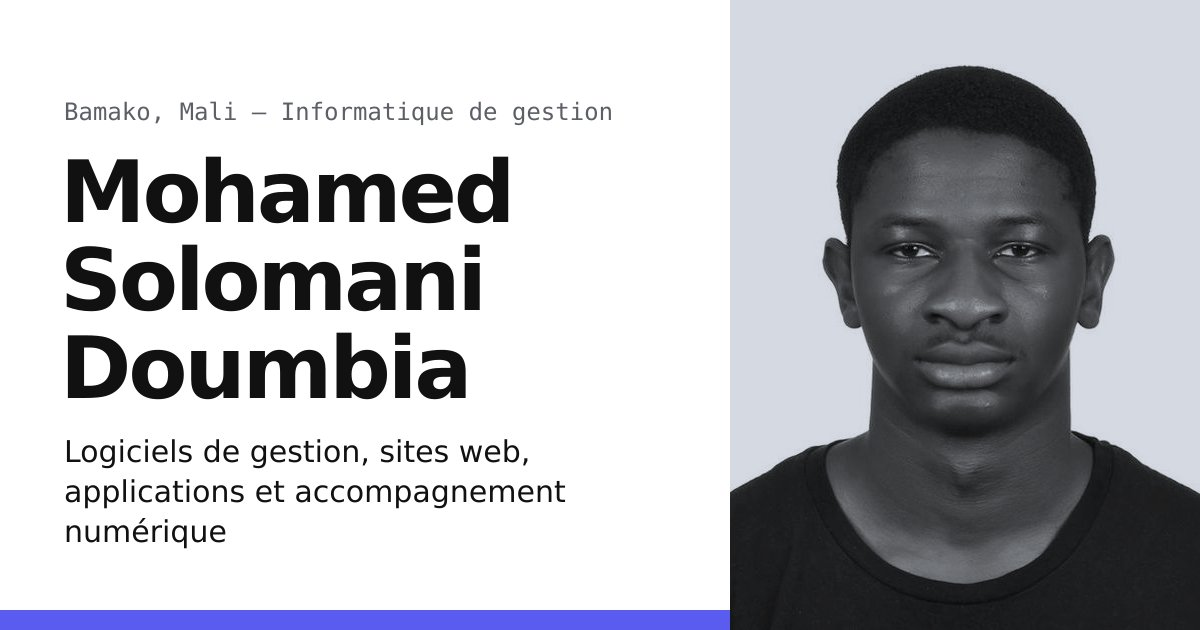
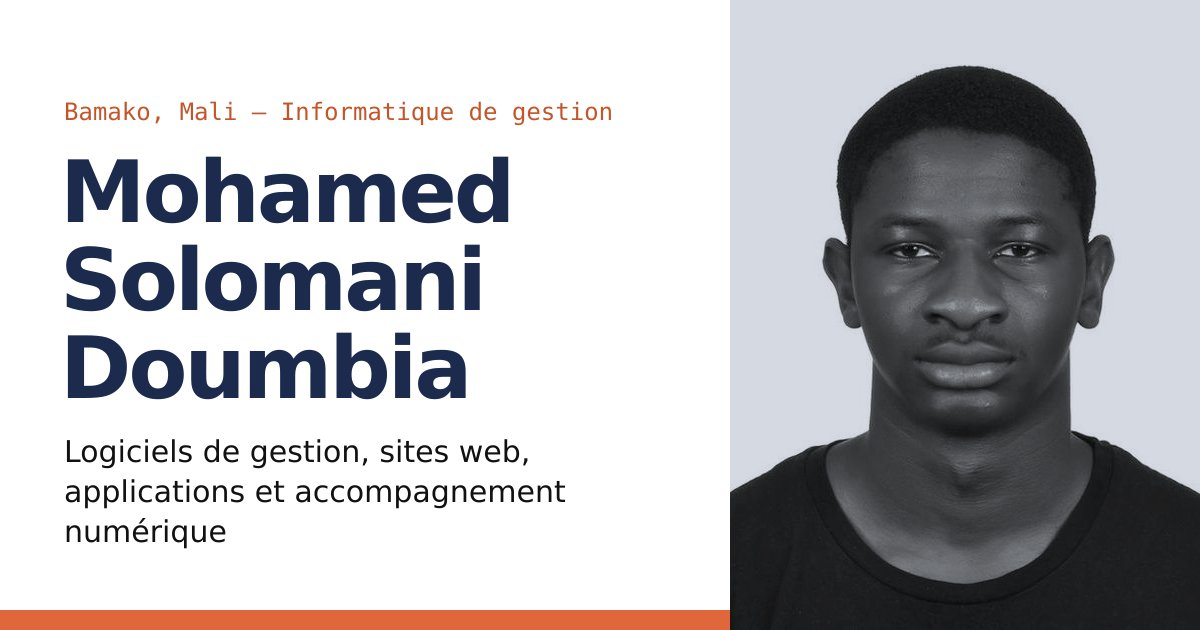
Aligne les couleurs du portfolio sur celles du CV
Bleu marine du CV en couleur principale (services, chiffres, contact,
pied de page, carte Kafora) et orange en accent (boutons, pastilles,
icônes, filets, lien actif). Orange plus foncé pour les boutons et petits
textes afin de garder un contraste lisible. Icônes, image de partage et
page 404 assorties.

Claude-Session: https://claude.ai/code/session_01SLQQvC6wSwLjkj3dk6TRUa

diff --git a/index.html b/index.html
@@ -18,7 +18,7 @@
   <meta property="og:image:height" content="630" />
   <meta property="og:image:alt" content="Mohamed Solomani Doumbia — Logiciels de gestion, sites web, applications et accompagnement numérique" />
   <meta name="twitter:card" content="summary_large_image" />
-  <meta name="theme-color" content="#ffffff" />
+  <meta name="theme-color" content="#1c2a4e" />
   <link rel="icon" type="image/svg+xml" href="assets/favicon.svg" />
   <link rel="icon" type="image/png" sizes="32x32" href="assets/favicon-32.png" />
   <link rel="apple-touch-icon" href="assets/apple-touch-icon.png" />
@@ -52,14 +52,16 @@
   <style>
     :root {
       color-scheme: light;
-      --black: #0a0a0a;
-      --char: #222222;
+      --navy: #1c2a4e;        /* bleu marine du CV */
+      --navy-deep: #15203d;
+      --navy-soft: #22335d;
       --white: #ffffff;
       --mist: #d5dae2;
       --ink: #111111;
       --grey: #5c5f66;
       --line: #e3e5e9;
-      --indigo: #5a5cf0;
+      --orange: #e0673c;      /* orange du CV : filets et détails */
+      --accent: #c4552b;      /* orange un peu plus foncé : boutons et petits textes (contraste) */
       --mono: "Space Mono", ui-monospace, monospace;
     }
 
@@ -75,21 +77,21 @@
     .big { font-size: clamp(54px, 8.4vw, 128px); line-height: .98; font-weight: 400; letter-spacing: -0.035em; }
     .pill {
       display: inline-grid; place-items: center; min-width: 52px; height: 36px; padding: 0 12px;
-      border: 1.5px solid var(--indigo); border-radius: 999px; font: 400 15px var(--mono);
+      border: 1.5px solid var(--orange); border-radius: 999px; font: 400 15px var(--mono);
     }
     .btn {
       display: inline-flex; align-items: center; gap: 10px; height: 56px; padding: 0 30px;
       font: 500 15px "Poppins", sans-serif; letter-spacing: .06em; text-transform: uppercase; text-decoration: none;
       border: 1.5px solid currentColor; transition: background .15s, color .15s;
     }
-    .btn.solid { background: var(--indigo); border-color: var(--indigo); color: #fff; }
-    .btn.solid:hover { background: #4446d6; border-color: #4446d6; }
-    .btn.line:hover { background: var(--ink); color: #fff; border-color: var(--ink); }
+    .btn.solid { background: var(--accent); border-color: var(--accent); color: #fff; }
+    .btn.solid:hover { background: var(--navy); border-color: var(--navy); }
+    .btn.line:hover { background: var(--navy); color: #fff; border-color: var(--navy); }
 
     /* Accessibilité */
-    .skip { position: absolute; left: 16px; top: -60px; z-index: 50; background: var(--indigo); color: #fff; padding: 10px 16px; text-decoration: none; }
+    .skip { position: absolute; left: 16px; top: -60px; z-index: 50; background: var(--accent); color: #fff; padding: 10px 16px; text-decoration: none; }
     .skip:focus { top: 12px; }
-    :focus-visible { outline: 2px solid var(--indigo); outline-offset: 3px; }
+    :focus-visible { outline: 2px solid var(--accent); outline-offset: 3px; }
     section { scroll-margin-top: 72px; }
 
     /* Apparition au défilement */
@@ -108,9 +110,9 @@
     .nav nav { display: flex; gap: 40px; font-size: 15px; letter-spacing: .04em; text-transform: uppercase; }
     .nav nav a { text-decoration: none; }
     .nav nav a { position: relative; transition: color .2s; }
-    .nav nav a:hover, .nav nav a.active { color: var(--indigo); }
+    .nav nav a:hover, .nav nav a.active { color: var(--accent); }
     .nav .wrap { position: relative; }
-    .nav .progress { position: absolute; left: 0; bottom: -1px; height: 2px; width: 100%; background: var(--indigo); transform-origin: 0 50%; transform: scaleX(0); }
+    .nav .progress { position: absolute; left: 0; bottom: -1px; height: 2px; width: 100%; background: var(--accent); transform-origin: 0 50%; transform: scaleX(0); }
     .burger { display: none; width: 44px; height: 44px; border: 0; background: none; cursor: pointer; padding: 10px; margin-right: -10px; }
     .burger span { display: block; height: 2px; background: var(--ink); transition: transform .25s, opacity .25s; }
     .burger span + span { margin-top: 7px; }
@@ -122,10 +124,10 @@
       .nav nav { display: none; }
       .burger { display: block; }
       .mobile-menu {
-        display: flex; flex-direction: column; position: fixed; inset: 72px 0 0; z-index: 19; background: var(--black); color: #fff;
+        display: flex; flex-direction: column; position: fixed; inset: 72px 0 0; z-index: 19; background: var(--navy); color: #fff;
         padding: 32px 16px; gap: 4px; transform: translateY(-8px); opacity: 0; visibility: hidden; transition: opacity .25s, transform .25s, visibility .25s;
       }
-      .mobile-menu a { font-size: 34px; font-weight: 500; letter-spacing: -0.02em; text-decoration: none; padding: 6px 0; border-bottom: 1px solid #2c2c2c; display: flex; justify-content: space-between; align-items: baseline; }
+      .mobile-menu a { font-size: 34px; font-weight: 500; letter-spacing: -0.02em; text-decoration: none; padding: 6px 0; border-bottom: 1px solid rgba(255,255,255,.14); display: flex; justify-content: space-between; align-items: baseline; }
       .mobile-menu a small { font: 400 13px var(--mono); color: #8a8d94; }
       .mobile-menu .btn { margin-top: 28px; justify-content: center; align-items: center; border-bottom: 0; font-size: 15px; letter-spacing: .06em; }
       .menu-open .mobile-menu { opacity: 1; visibility: visible; transform: none; }
@@ -154,15 +156,15 @@
     @media (max-width: 640px) { .hero-text { padding: 40px 16px 56px; } }
 
     /* ── Services (fond noir, grille) ────────────────── */
-    .services { background: var(--black); color: #fff; }
+    .services { background: var(--navy); color: #fff; }
     .services .grid { display: grid; grid-template-columns: 1fr 1.7fr; }
-    .services .title-cell { padding: 96px 48px 96px max(32px, calc((100vw - 1280px) / 2)); border-right: 1px solid #2c2c2c; }
+    .services .title-cell { padding: 96px 48px 96px max(32px, calc((100vw - 1280px) / 2)); border-right: 1px solid rgba(255,255,255,.14); }
     .services .title-cell .inner { position: sticky; top: 120px; }
     .services .title-cell p { color: #b6b8be; margin: 32px 0 0; max-width: 22em; }
-    .service { display: grid; grid-template-columns: 200px 1fr; gap: 32px; align-items: center; padding: 56px max(32px, calc((100vw - 1280px) / 2)) 56px 48px; border-bottom: 1px solid #2c2c2c; }
-    .service:nth-child(even) { background: #141414; }
+    .service { display: grid; grid-template-columns: 200px 1fr; gap: 32px; align-items: center; padding: 56px max(32px, calc((100vw - 1280px) / 2)) 56px 48px; border-bottom: 1px solid rgba(255,255,255,.14); }
+    .service:nth-child(even) { background: var(--navy-deep); }
     .service { transition: background .3s; }
-    .service:hover { background: #1b1b2e; }
+    .service:hover { background: var(--navy-soft); }
     .service svg { width: 132px; height: 132px; justify-self: center; transition: transform .4s cubic-bezier(.2,.7,.2,1); }
     .service:hover svg { transform: scale(1.06) rotate(-3deg); }
     .service .row { display: grid; grid-template-columns: auto 1fr; gap: 24px; align-items: start; }
@@ -170,7 +172,7 @@
     .service p { margin: 12px 0 0; color: #c9cbd1; }
     @media (max-width: 960px) {
       .services .grid { grid-template-columns: 1fr; }
-      .services .title-cell { padding: 72px 32px 40px; border-right: 0; border-bottom: 1px solid #2c2c2c; }
+      .services .title-cell { padding: 72px 32px 40px; border-right: 0; border-bottom: 1px solid rgba(255,255,255,.14); }
       .service { grid-template-columns: 1fr; padding: 40px 32px; gap: 24px; }
       .service svg { justify-self: start; width: 88px; height: 88px; }
     }
@@ -193,12 +195,12 @@
     .about .text p { margin: 0; }
     @media (max-width: 860px) { .about::after { width: 22%; opacity: .6; } .about .text { grid-template-columns: 1fr; gap: 20px; } }
 
-    /* ── Chiffres (indigo) ───────────────────────────── */
-    .figures { background: var(--indigo); color: #fff; }
+    /* ── Chiffres (marine) ───────────────────────────── */
+    .figures { background: var(--navy); color: #fff; }
     .figures .wrap { display: grid; grid-template-columns: 1fr 2.2fr; gap: 48px; padding: 72px 0 80px; }
     .figures h2 { font-size: clamp(30px, 3vw, 44px); font-weight: 400; }
     .figures .cells { display: grid; grid-template-columns: 1fr 1fr; gap: 48px 32px; }
-    .figures .cell { border-top: 12px solid #fff; border-bottom: 1px solid rgba(255,255,255,.7); padding: 30px 0 34px; }
+    .figures .cell { border-top: 12px solid var(--orange); border-bottom: 1px solid rgba(255,255,255,.7); padding: 30px 0 34px; }
     .figures strong { display: block; font-size: clamp(48px, 5.4vw, 76px); line-height: 1; font-weight: 600; letter-spacing: -0.03em; }
     .figures span { display: block; margin-top: 14px; }
     @media (max-width: 860px) { .figures .wrap { grid-template-columns: 1fr; } }
@@ -213,9 +215,9 @@
     .sectors li:not(:nth-child(3n+1)) { padding-left: 28px; border-left: 1px solid var(--line); }
     .sectors li { transition: background .25s; }
     .sectors h3 { font-size: 21px; font-weight: 500; margin-bottom: 8px; transition: color .25s; }
-    .sectors li:hover h3 { color: var(--indigo); }
+    .sectors li:hover h3 { color: var(--accent); }
     .sectors p { margin: 0; color: var(--grey); font-size: 15px; }
-    .sectors .xp { display: inline-block; margin-top: 14px; font: 400 12px var(--mono); color: var(--indigo); text-transform: uppercase; letter-spacing: .04em; }
+    .sectors .xp { display: inline-block; margin-top: 14px; font: 400 12px var(--mono); color: var(--accent); text-transform: uppercase; letter-spacing: .04em; }
     @media (max-width: 960px) {
       .sec-head { grid-template-columns: 1fr; gap: 24px; }
       .sectors { grid-template-columns: 1fr 1fr; }
@@ -228,15 +230,15 @@
     }
 
     /* ── Réalisations (anthracite, cartes) ───────────── */
-    .work { background: var(--char); color: #fff; }
+    .work { background: #eef0f4; color: var(--ink); }
     .work .wrap { padding: 104px 0; }
-    .work .sec-head p { color: #b6b8be; }
+    .work .sec-head p { color: var(--grey); }
     .cards { display: grid; grid-template-columns: repeat(2, 1fr); gap: 32px; }
-    .card { background: var(--indigo); color: #fff; padding: 36px 34px 34px; display: flex; flex-direction: column; min-height: 560px; transition: transform .35s cubic-bezier(.2,.7,.2,1), box-shadow .35s; }
-    .card:hover { transform: translateY(-6px); box-shadow: 0 24px 48px rgba(0,0,0,.35); }
-    .card:nth-child(2) { background: #f4f4f6; color: var(--ink); }
-    .card:nth-child(3) { background: #fff; color: var(--ink); }
-    .card:nth-child(4) { background: var(--mist); color: var(--ink); }
+    .card { background: var(--navy); color: #fff; padding: 36px 34px 34px; display: flex; flex-direction: column; min-height: 560px; transition: transform .35s cubic-bezier(.2,.7,.2,1), box-shadow .35s; }
+    .card:hover { transform: translateY(-6px); box-shadow: 0 24px 48px rgba(28,42,78,.22); }
+    .card:nth-child(2) { background: #fff; color: var(--ink); border-top: 6px solid var(--orange); }
+    .card:nth-child(3) { background: #fff; color: var(--ink); border-top: 6px solid var(--orange); }
+    .card:nth-child(4) { background: var(--mist); color: var(--ink); border-top: 6px solid var(--orange); }
     .card .top { display: flex; justify-content: space-between; align-items: center; font: 400 13px var(--mono); text-transform: uppercase; letter-spacing: .04em; }
     .card .top .pill { border-color: currentColor; height: 30px; min-width: 0; font-size: 12px; }
     /* Emplacement de la capture d'écran */
@@ -282,18 +284,18 @@
     .journey .what { font: 700 17px var(--mono); margin-top: 6px; }
     .journey .what span { font-weight: 400; }
     .journey li p { margin: 8px 0 0; font: 400 14px/1.75 var(--mono); color: var(--grey); }
-    .journey h3 { font: 700 13px var(--mono); text-transform: uppercase; letter-spacing: .08em; color: var(--indigo); margin: 0 0 24px; }
+    .journey h3 { font: 700 13px var(--mono); text-transform: uppercase; letter-spacing: .08em; color: var(--accent); margin: 0 0 24px; }
     .langs { font: 400 14px/1.8 var(--mono); }
     @media (max-width: 960px) { .journey .wrap { grid-template-columns: 1fr; gap: 40px; } }
 
     /* ── Contact (noir + formulaire) ─────────────────── */
-    .contact { display: grid; grid-template-columns: 1fr 1fr; background: var(--black); }
+    .contact { display: grid; grid-template-columns: 1fr 1fr; background: var(--navy); }
     .contact .left { color: #fff; padding: 96px 48px 72px max(32px, calc((100vw - 1280px) / 2)); display: flex; flex-direction: column; }
     .contact .left p { margin: 36px 0 0; font-size: 19px; color: #d3d4d8; }
     .contact .coords { margin-top: auto; padding-top: 72px; display: grid; grid-template-columns: 1fr 1fr; gap: 24px; font-size: 18px; }
     .contact .coords a { text-decoration: none; display: block; }
     .contact .coords a:hover { text-decoration: underline; }
-    .contact .right { background: #fff; margin-top: 180px; border-top: 12px solid var(--indigo); padding: 64px max(32px, calc((100vw - 1280px) / 2)) 72px 72px; }
+    .contact .right { background: #fff; margin-top: 180px; border-top: 12px solid var(--orange); padding: 64px max(32px, calc((100vw - 1280px) / 2)) 72px 72px; }
     form { display: grid; grid-template-columns: 1fr 1fr; gap: 26px 20px; }
     form .full { grid-column: 1 / -1; }
     label { display: block; font-size: 16px; margin-bottom: 8px; }
@@ -301,10 +303,10 @@
       width: 100%; font: 400 15px "Poppins", sans-serif; color: var(--ink); background: #fff;
       border: 1px solid #8a8d94; border-radius: 0; padding: 12px 14px;
     }
-    input:focus, select:focus, textarea:focus { outline: 2px solid var(--indigo); outline-offset: -1px; border-color: var(--indigo); }
+    input:focus, select:focus, textarea:focus { outline: 2px solid var(--accent); outline-offset: -1px; border-color: var(--accent); }
     textarea { min-height: 130px; resize: vertical; }
-    form button { grid-column: 1 / -1; height: 54px; border: 0; background: var(--black); color: #fff; font: 500 15px "Poppins", sans-serif; letter-spacing: .06em; text-transform: uppercase; cursor: pointer; }
-    form button:hover { background: var(--indigo); }
+    form button { grid-column: 1 / -1; height: 54px; border: 0; background: var(--navy); color: #fff; font: 500 15px "Poppins", sans-serif; letter-spacing: .06em; text-transform: uppercase; cursor: pointer; }
+    form button:hover { background: var(--accent); }
     .form-note { grid-column: 1 / -1; margin: -8px 0 0; font-size: 13px; color: var(--grey); }
     .form-note.ok { color: #1f7a4b; font-weight: 500; }
     @media (max-width: 960px) {
@@ -318,9 +320,10 @@
       form { grid-template-columns: 1fr; }
     }
 
-    /* ── Pied de page (indigo) ───────────────────────── */
-    footer { background: var(--indigo); color: #fff; display: grid; grid-template-columns: 1fr 2.4fr; }
+    /* ── Pied de page (marine foncé) ─────────────────── */
+    footer { background: var(--navy-deep); color: #fff; display: grid; grid-template-columns: 1fr 2.4fr; }
     footer .mark { padding: 64px 40px 56px max(32px, calc((100vw - 1280px) / 2)); border-right: 1px solid rgba(255,255,255,.55); font: 600 clamp(96px, 12vw, 190px)/0.85 "Poppins", sans-serif; letter-spacing: -0.05em; display: flex; align-items: flex-end; }
+    footer .mark span { color: var(--orange); }
     footer .links { padding: 64px max(32px, calc((100vw - 1280px) / 2)) 56px 48px; display: grid; grid-template-columns: repeat(3, auto); justify-content: start; gap: 12px 72px; align-content: end; font-size: 17px; }
     footer .links a { text-decoration: none; display: block; }
     footer .links a:hover { text-decoration: underline; }
@@ -396,27 +399,27 @@
         </div>
         <div>
           <article class="service reveal">
-            <svg viewBox="0 0 132 132" fill="none" stroke="#fff" stroke-width="2.5" aria-hidden="true"><rect x="20" y="28" width="22" height="84" rx="11"/><rect x="55" y="70" width="22" height="42" rx="11"/><rect x="90" y="46" width="22" height="66" rx="11" fill="#5a5cf0" stroke="#5a5cf0"/></svg>
+            <svg viewBox="0 0 132 132" fill="none" stroke="#fff" stroke-width="2.5" aria-hidden="true"><rect x="20" y="28" width="22" height="84" rx="11"/><rect x="55" y="70" width="22" height="42" rx="11"/><rect x="90" y="46" width="22" height="66" rx="11" fill="#e0673c" stroke="#e0673c"/></svg>
             <div class="row"><span class="pill">01</span><div><h3>Logiciels de gestion sur mesure</h3><p>Caisse, stocks, ventes, achats, crédit client, facturation, suivi du personnel&nbsp;: un outil adapté à votre organisation, utilisable même sans connexion.</p></div></div>
           </article>
           <article class="service reveal">
-            <svg viewBox="0 0 132 132" fill="none" stroke="#fff" stroke-width="2.5" aria-hidden="true"><rect x="14" y="26" width="104" height="80" rx="6"/><path d="M14 44h104"/><circle cx="26" cy="35" r="3" fill="#fff"/><circle cx="37" cy="35" r="3" fill="#fff"/><rect x="28" y="58" width="44" height="34" fill="#5a5cf0" stroke="#5a5cf0"/><path d="M84 60h22M84 72h22M84 84h14"/></svg>
+            <svg viewBox="0 0 132 132" fill="none" stroke="#fff" stroke-width="2.5" aria-hidden="true"><rect x="14" y="26" width="104" height="80" rx="6"/><path d="M14 44h104"/><circle cx="26" cy="35" r="3" fill="#fff"/><circle cx="37" cy="35" r="3" fill="#fff"/><rect x="28" y="58" width="44" height="34" fill="#e0673c" stroke="#e0673c"/><path d="M84 60h22M84 72h22M84 84h14"/></svg>
             <div class="row"><span class="pill">02</span><div><h3>Sites web et boutiques en ligne</h3><p>Site vitrine pour présenter votre activité, boutique en ligne avec prise de commande, formulaires de contact ou de réservation.</p></div></div>
           </article>
           <article class="service reveal">
-            <svg viewBox="0 0 132 132" fill="none" stroke="#fff" stroke-width="2.5" aria-hidden="true"><rect x="40" y="14" width="52" height="104" rx="10"/><path d="M58 24h16"/><circle cx="66" cy="104" r="5" fill="#5a5cf0" stroke="#5a5cf0"/><path d="M52 44h28M52 56h28M52 68h18"/></svg>
+            <svg viewBox="0 0 132 132" fill="none" stroke="#fff" stroke-width="2.5" aria-hidden="true"><rect x="40" y="14" width="52" height="104" rx="10"/><path d="M58 24h16"/><circle cx="66" cy="104" r="5" fill="#e0673c" stroke="#e0673c"/><path d="M52 44h28M52 56h28M52 68h18"/></svg>
             <div class="row"><span class="pill">03</span><div><h3>Applications web et mobiles</h3><p>Applications installables sur téléphone et ordinateur, pour vos équipes sur le terrain comme pour vos clients.</p></div></div>
           </article>
           <article class="service reveal">
-            <svg viewBox="0 0 132 132" fill="none" stroke="#fff" stroke-width="2.5" aria-hidden="true"><circle cx="30" cy="30" r="12"/><circle cx="66" cy="30" r="12"/><circle cx="102" cy="30" r="12"/><circle cx="30" cy="66" r="12"/><circle cx="66" cy="66" r="12" fill="#5a5cf0" stroke="#5a5cf0"/><circle cx="102" cy="66" r="12"/><circle cx="30" cy="102" r="12"/><circle cx="66" cy="102" r="12"/><circle cx="102" cy="102" r="12"/></svg>
+            <svg viewBox="0 0 132 132" fill="none" stroke="#fff" stroke-width="2.5" aria-hidden="true"><circle cx="30" cy="30" r="12"/><circle cx="66" cy="30" r="12"/><circle cx="102" cy="30" r="12"/><circle cx="30" cy="66" r="12"/><circle cx="66" cy="66" r="12" fill="#e0673c" stroke="#e0673c"/><circle cx="102" cy="66" r="12"/><circle cx="30" cy="102" r="12"/><circle cx="66" cy="102" r="12"/><circle cx="102" cy="102" r="12"/></svg>
             <div class="row"><span class="pill">04</span><div><h3>Tableaux de bord et automatisation</h3><p>Rapports et indicateurs clairs, fichiers Excel automatisés, passage de vos tableurs à une application fiable.</p></div></div>
           </article>
           <article class="service reveal">
-            <svg viewBox="0 0 132 132" fill="none" stroke="#fff" stroke-width="2.5" aria-hidden="true"><circle cx="48" cy="66" r="32"/><circle cx="84" cy="66" r="32" fill="#5a5cf0" stroke="#5a5cf0" fill-opacity=".9"/><circle cx="48" cy="66" r="32"/></svg>
+            <svg viewBox="0 0 132 132" fill="none" stroke="#fff" stroke-width="2.5" aria-hidden="true"><circle cx="48" cy="66" r="32"/><circle cx="84" cy="66" r="32" fill="#e0673c" stroke="#e0673c" fill-opacity=".9"/><circle cx="48" cy="66" r="32"/></svg>
             <div class="row"><span class="pill">05</span><div><h3>Conseil et accompagnement</h3><p>Analyse de vos besoins, choix des bons outils (logiciel sur mesure, Sage, Odoo…), mise en place et formation de vos équipes.</p></div></div>
           </article>
           <article class="service reveal">
-            <svg viewBox="0 0 132 132" fill="none" stroke="#fff" stroke-width="2.5" aria-hidden="true"><rect x="18" y="18" width="62" height="62"/><circle cx="84" cy="84" r="30" fill="#5a5cf0" stroke="#5a5cf0"/><path d="M18 18l96 96"/></svg>
+            <svg viewBox="0 0 132 132" fill="none" stroke="#fff" stroke-width="2.5" aria-hidden="true"><rect x="18" y="18" width="62" height="62"/><circle cx="84" cy="84" r="30" fill="#e0673c" stroke="#e0673c"/><path d="M18 18l96 96"/></svg>
             <div class="row"><span class="pill">06</span><div><h3>Design et supports visuels</h3><p>Maquettes d'interfaces sur Figma, supports de communication (flyers, affiches, infographies) sur Canva.</p></div></div>
           </article>
         </div>
@@ -603,7 +606,7 @@
   </main>
 
   <footer>
-    <div class="mark">MSD.</div>
+    <div class="mark">MSD<span>.</span></div>
     <div class="links">
       <a href="mailto:dmohamedsolomani@gmail.com">E-mail</a>
       <a href="#services">Services</a>

diff --git a/404.html b/404.html
@@ -10,12 +10,12 @@
   <link rel="preconnect" href="https://fonts.gstatic.com" crossorigin />
   <link rel="stylesheet" href="https://fonts.googleapis.com/css2?family=Poppins:wght@400;600&family=Space+Mono&display=swap" />
   <style>
-    body { margin: 0; min-height: 100vh; display: grid; place-items: center; background: #0a0a0a; color: #fff; font: 400 17px/1.6 "Poppins", system-ui, sans-serif; padding: 32px 16px; box-sizing: border-box; }
+    body { margin: 0; min-height: 100vh; display: grid; place-items: center; background: #1c2a4e; color: #fff; font: 400 17px/1.6 "Poppins", system-ui, sans-serif; padding: 32px 16px; box-sizing: border-box; }
     main { width: min(720px, 100%); }
     p.code { font-family: "Space Mono", monospace; color: #8a8d94; margin: 0 0 16px; }
     h1 { font-size: clamp(48px, 9vw, 96px); line-height: 1; letter-spacing: -0.035em; font-weight: 600; margin: 0 0 24px; }
-    a { display: inline-flex; align-items: center; height: 56px; padding: 0 30px; background: #5a5cf0; color: #fff; text-decoration: none; text-transform: uppercase; letter-spacing: .06em; font-weight: 500; font-size: 15px; margin-top: 16px; }
-    a:hover { background: #4446d6; }
+    a { display: inline-flex; align-items: center; height: 56px; padding: 0 30px; background: #c4552b; color: #fff; text-decoration: none; text-transform: uppercase; letter-spacing: .06em; font-weight: 500; font-size: 15px; margin-top: 16px; }
+    a:hover { background: #a9461f; }
   </style>
 </head>
 <body>
